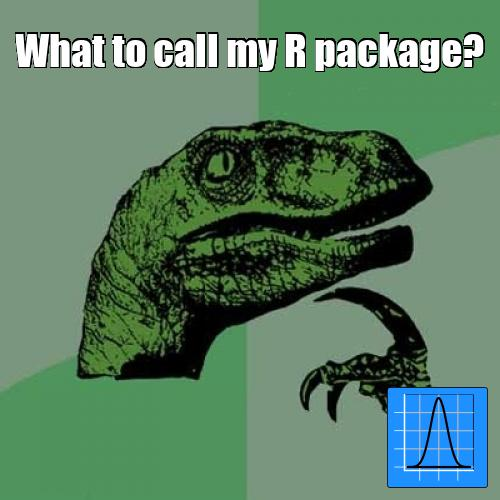
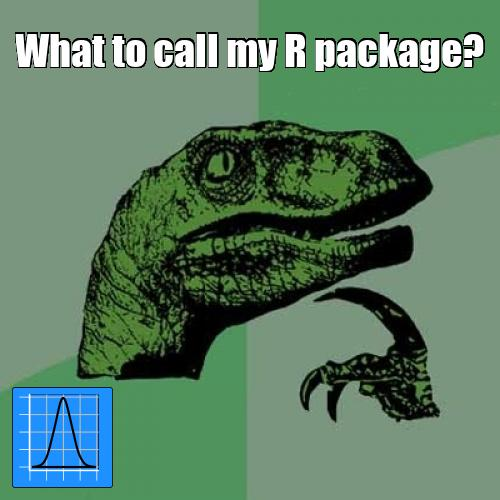
Fix thumbnail placement in example.

Changed region(s): [[0.75, 0.75, 0.99, 0.99], [0.0, 0.75, 0.24, 0.99]]

diff --git a/docs/articles/memery.html b/docs/articles/memery.html
@@ -202,7 +202,7 @@ p &lt;-<span class="st"> </span><span class="kw">ggplot</span>(d, <span class="k
 <div class="sourceCode"><pre class="sourceCode r"><code class="sourceCode r"><span class="kw">library</span>(cowplot)
 p2 &lt;-<span class="st"> </span><span class="kw">ggplot</span>(<span class="kw">data_frame</span>(<span class="dt">x =</span> <span class="kw">rnorm</span>(<span class="dv">10000</span>)), <span class="kw">aes</span>(x)) +<span class="st"> </span><span class="kw">geom_density</span>(<span class="dt">adjust =</span> <span class="dv">2</span>, 
     <span class="dt">size =</span> <span class="dv">1</span>) +<span class="st"> </span><span class="kw">theme_nothing</span>()
-pos &lt;-<span class="st"> </span><span class="kw">list</span>(<span class="dt">w =</span> <span class="fl">0.2</span>, <span class="dt">h =</span> <span class="fl">0.2</span>, <span class="dt">x =</span> <span class="fl">0.875</span>, <span class="dt">y =</span> <span class="fl">0.125</span>)
+pos &lt;-<span class="st"> </span><span class="kw">list</span>(<span class="dt">w =</span> <span class="fl">0.2</span>, <span class="dt">h =</span> <span class="fl">0.2</span>, <span class="dt">x =</span> <span class="fl">0.125</span>, <span class="dt">y =</span> <span class="fl">0.125</span>)
 <span class="kw"><a href="../reference/meme.html">meme</a></span>(loc, lab[<span class="dv">1</span>], <span class="st">"meme4b.jpg"</span>, <span class="dt">inset =</span> p2, <span class="dt">inset_bg =</span> <span class="kw">list</span>(<span class="dt">fill =</span> <span class="st">"dodgerblue"</span>, 
     <span class="dt">col =</span> <span class="st">"black"</span>), <span class="dt">inset_pos =</span> pos)</code></pre></div>
 <p style="text-align:center;">
